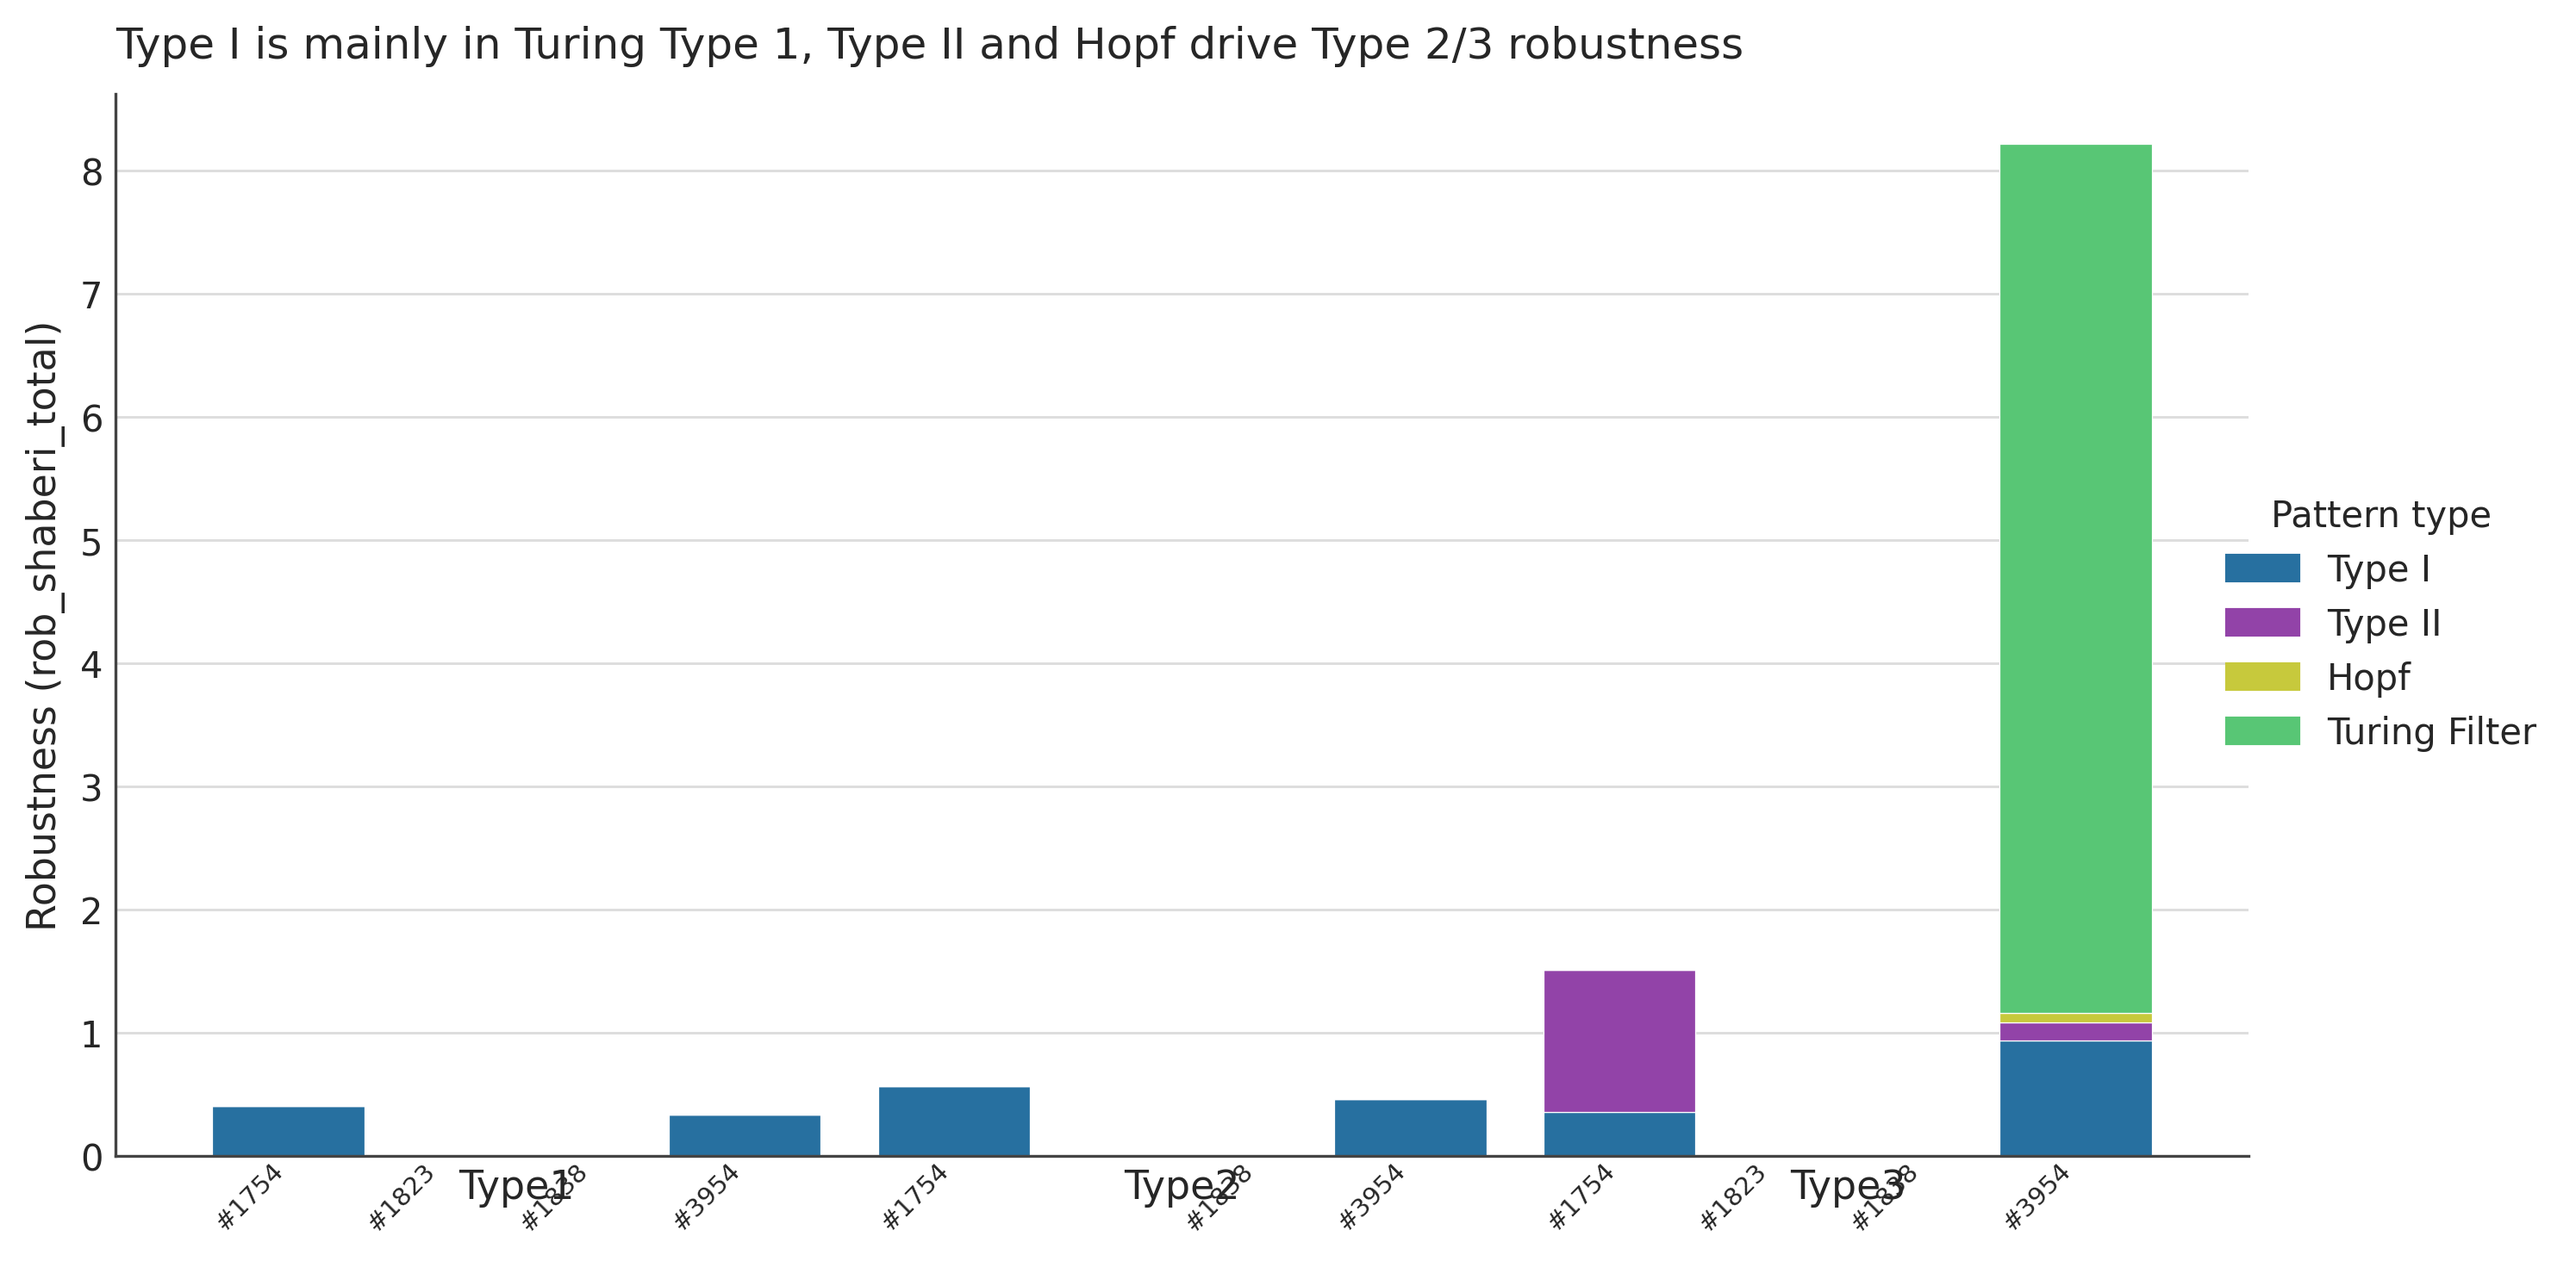
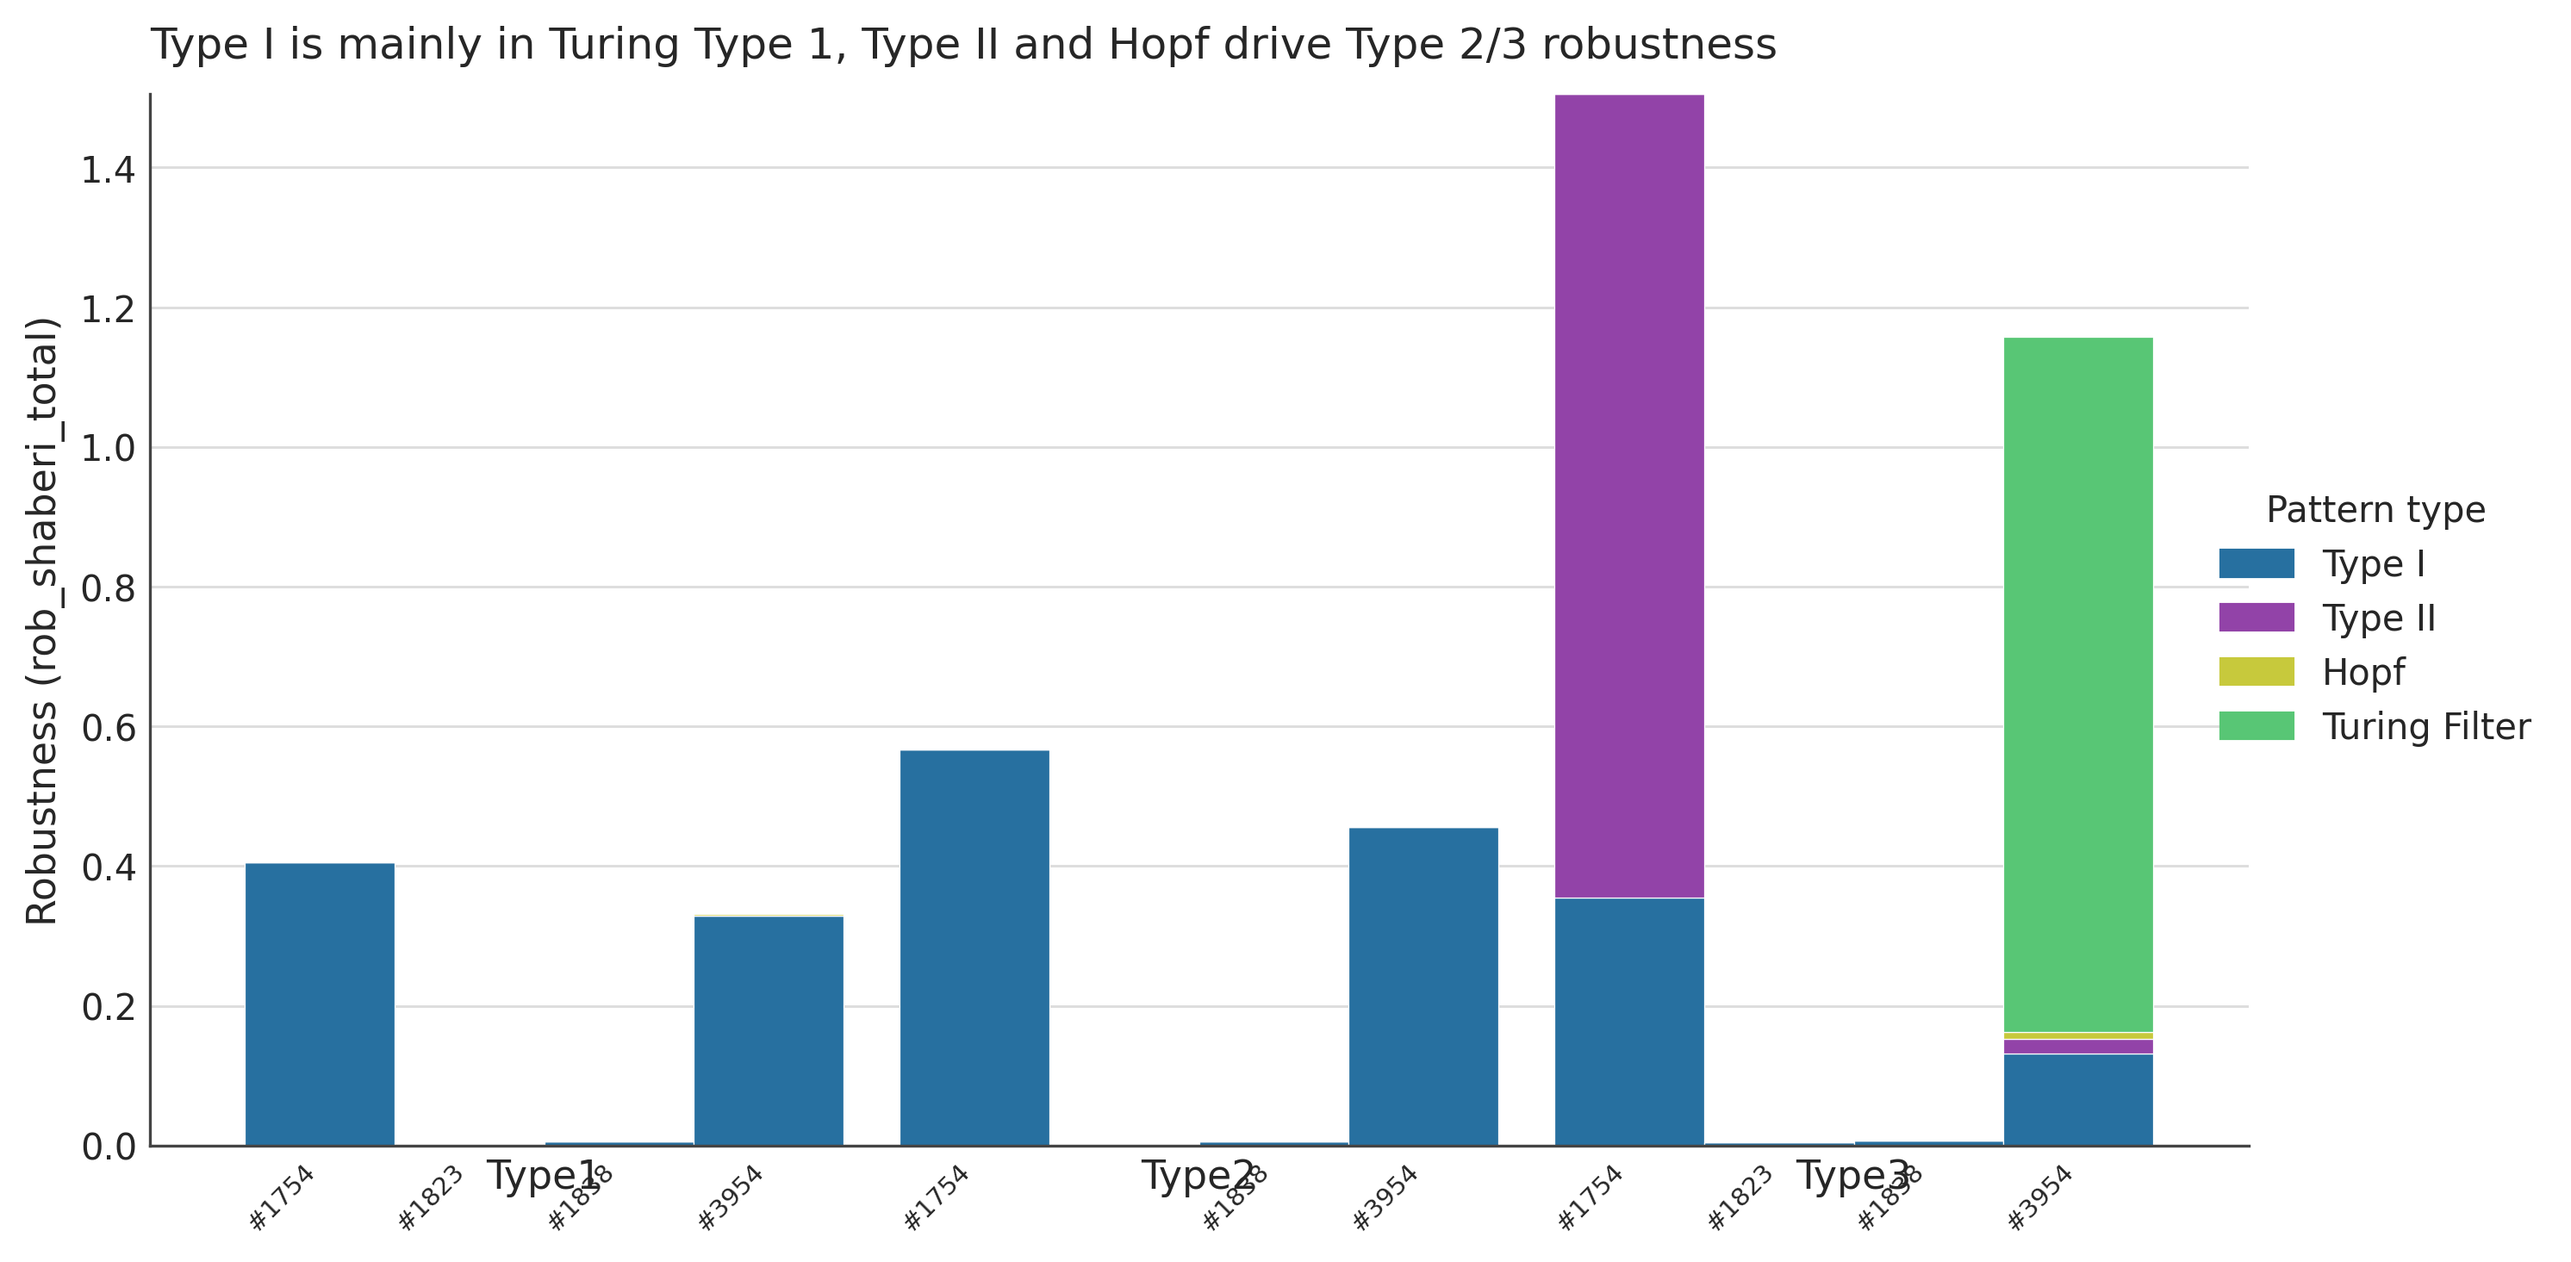
i am going to bed now

diff --git a/TopologyRanking/results-compare-lhs.py b/TopologyRanking/results-compare-lhs.py
@@ -165,7 +165,8 @@ def fig6_pattern_composition(df):
                 continue
  
             rob   = row["rob"]
-            total = row["type_I"] + row["type_II"] + row["hopf"]
+            #total = row["type_I"] + row["type_II"] + row["hopf"]
+            total = row["type_I"] + row["type_II"] + row["hopf"] + row["turing_filter"]
             if total == 0 or rob == 0:
                 continue
  
@@ -261,69 +262,69 @@ PARAMS_CSV = "Topology3954/3954_FILTER_lhs_results_parameters.csv"
 
 # Add this function with your other plotting functions
 
-def fig_3d_parameter_space():
-    # Load detailed parameter data
-    df_params = pd.read_csv(PARAMS_CSV)
+# def fig_3d_parameter_space():
+#     # Load detailed parameter data
+#     df_params = pd.read_csv(PARAMS_CSV)
     
-    # Choose which config(s) to plot
-    # Option 1: Plot just one config (the most robust)
-    config_to_plot = 13  # Your most robust config
-    df_plot = df_params[df_params['config_id'] == config_to_plot]
+#     # Choose which config(s) to plot
+#     # Option 1: Plot just one config (the most robust)
+#     config_to_plot = 13  # Your most robust config
+#     df_plot = df_params[df_params['config_id'] == config_to_plot]
     
-    # Extract the 3 production rates
-    beta_u = df_plot['beta_u'].values
-    beta_v = df_plot['beta_v'].values
-    beta_w = df_plot['beta_w'].values
+#     # Extract the 3 production rates
+#     beta_u = df_plot['beta_u'].values
+#     beta_v = df_plot['beta_v'].values
+#     beta_w = df_plot['beta_w'].values
     
-    print(f"\nConfig {config_to_plot}: {len(df_plot)} points")
-    print(f"  beta_u range: [{beta_u.min():.2f}, {beta_u.max():.2f}]")
-    print(f"  beta_v range: [{beta_v.min():.2f}, {beta_v.max():.2f}]")
-    print(f"  beta_w range: [{beta_w.min():.2f}, {beta_w.max():.2f}]")
+#     print(f"\nConfig {config_to_plot}: {len(df_plot)} points")
+#     print(f"  beta_u range: [{beta_u.min():.2f}, {beta_u.max():.2f}]")
+#     print(f"  beta_v range: [{beta_v.min():.2f}, {beta_v.max():.2f}]")
+#     print(f"  beta_w range: [{beta_w.min():.2f}, {beta_w.max():.2f}]")
     
-    # Create 3D plot
-    fig = plt.figure(figsize=(12, 9))
-    ax = fig.add_subplot(111, projection='3d')
+#     # Create 3D plot
+#     fig = plt.figure(figsize=(12, 9))
+#     ax = fig.add_subplot(111, projection='3d')
     
-    # Scatter plot of all Turing parameter sets
-    scatter = ax.scatter(beta_u, beta_v, beta_w,
-                        c=df_plot['max_growth_rate'],  # Color by Turing strength
-                        cmap='YlOrRd',
-                        s=50,
-                        alpha=0.6,
-                        edgecolors='k',
-                        linewidth=0.5)
+#     # Scatter plot of all Turing parameter sets
+#     scatter = ax.scatter(beta_u, beta_v, beta_w,
+#                         c=df_plot['max_growth_rate'],  # Color by Turing strength
+#                         cmap='YlOrRd',
+#                         s=50,
+#                         alpha=0.6,
+#                         edgecolors='k',
+#                         linewidth=0.5)
     
-    # Optional: Draw convex hull if you have enough points (>10)
-    if len(df_plot) > 10:
-        points = np.column_stack([beta_u, beta_v, beta_w])
-        try:
-            hull = ConvexHull(points)
-            # Plot hull surface
-            for simplex in hull.simplices:
-                triangle = points[simplex]
-                ax.plot_trisurf(triangle[:, 0], triangle[:, 1], triangle[:, 2],
-                               color='orange', alpha=0.2, linewidth=0)
-        except:
-            print("  (Not enough points for convex hull)")
+#     # Optional: Draw convex hull if you have enough points (>10)
+#     if len(df_plot) > 10:
+#         points = np.column_stack([beta_u, beta_v, beta_w])
+#         try:
+#             hull = ConvexHull(points)
+#             # Plot hull surface
+#             for simplex in hull.simplices:
+#                 triangle = points[simplex]
+#                 ax.plot_trisurf(triangle[:, 0], triangle[:, 1], triangle[:, 2],
+#                                color='orange', alpha=0.2, linewidth=0)
+#         except:
+#             print("  (Not enough points for convex hull)")
     
-    # Labels and styling
-    ax.set_xlabel('β$_u$ (u production rate)', fontsize=12, labelpad=10)
-    ax.set_ylabel('β$_v$ (v production rate)', fontsize=12, labelpad=10)
-    ax.set_zlabel('β$_w$ (w production rate)', fontsize=12, labelpad=10)
+#     # Labels and styling
+#     ax.set_xlabel('β$_u$ (u production rate)', fontsize=12, labelpad=10)
+#     ax.set_ylabel('β$_v$ (v production rate)', fontsize=12, labelpad=10)
+#     ax.set_zlabel('β$_w$ (w production rate)', fontsize=12, labelpad=10)
     
-    config_name = df_plot['config_name'].iloc[0]
-    ax.set_title(f'Turing Parameter Space: {config_name}\n'
-                 f'(dU={df_plot["dU"].iloc[0]}, dV={df_plot["dV"].iloc[0]}, dW={df_plot["dW"].iloc[0]})',
-                 fontsize=13, pad=20)
+#     config_name = df_plot['config_name'].iloc[0]
+#     ax.set_title(f'Turing Parameter Space: {config_name}\n'
+#                  f'(dU={df_plot["dU"].iloc[0]}, dV={df_plot["dV"].iloc[0]}, dW={df_plot["dW"].iloc[0]})',
+#                  fontsize=13, pad=20)
     
-    # Colorbar
-    cbar = plt.colorbar(scatter, ax=ax, pad=0.1, shrink=0.8)
-    cbar.set_label('Max Growth Rate (Turing strength)', fontsize=11)
+#     # Colorbar
+#     cbar = plt.colorbar(scatter, ax=ax, pad=0.1, shrink=0.8)
+#     cbar.set_label('Max Growth Rate (Turing strength)', fontsize=11)
     
-    # Better viewing angle
-    ax.view_init(elev=20, azim=45)
+#     # Better viewing angle
+#     ax.view_init(elev=20, azim=45)
     
-    save(fig, "fig_3d_turing_island_single_config")
+#     save(fig, "fig_3d_turing_island_single_config")
 
 
 # think about maybe comparing different parametres so not necessarily beta u, beta v and beta w
@@ -397,7 +398,7 @@ fig6_pattern_composition(df)
 fig_pseudo_phase_3954(df)
 
 # NEW: Add 3D parameter space plots
-fig_3d_parameter_space()
+# fig_3d_parameter_space()
 fig_3d_parameter_space_comparison()
 
 # fig_phase_interpolated_3954(df)
